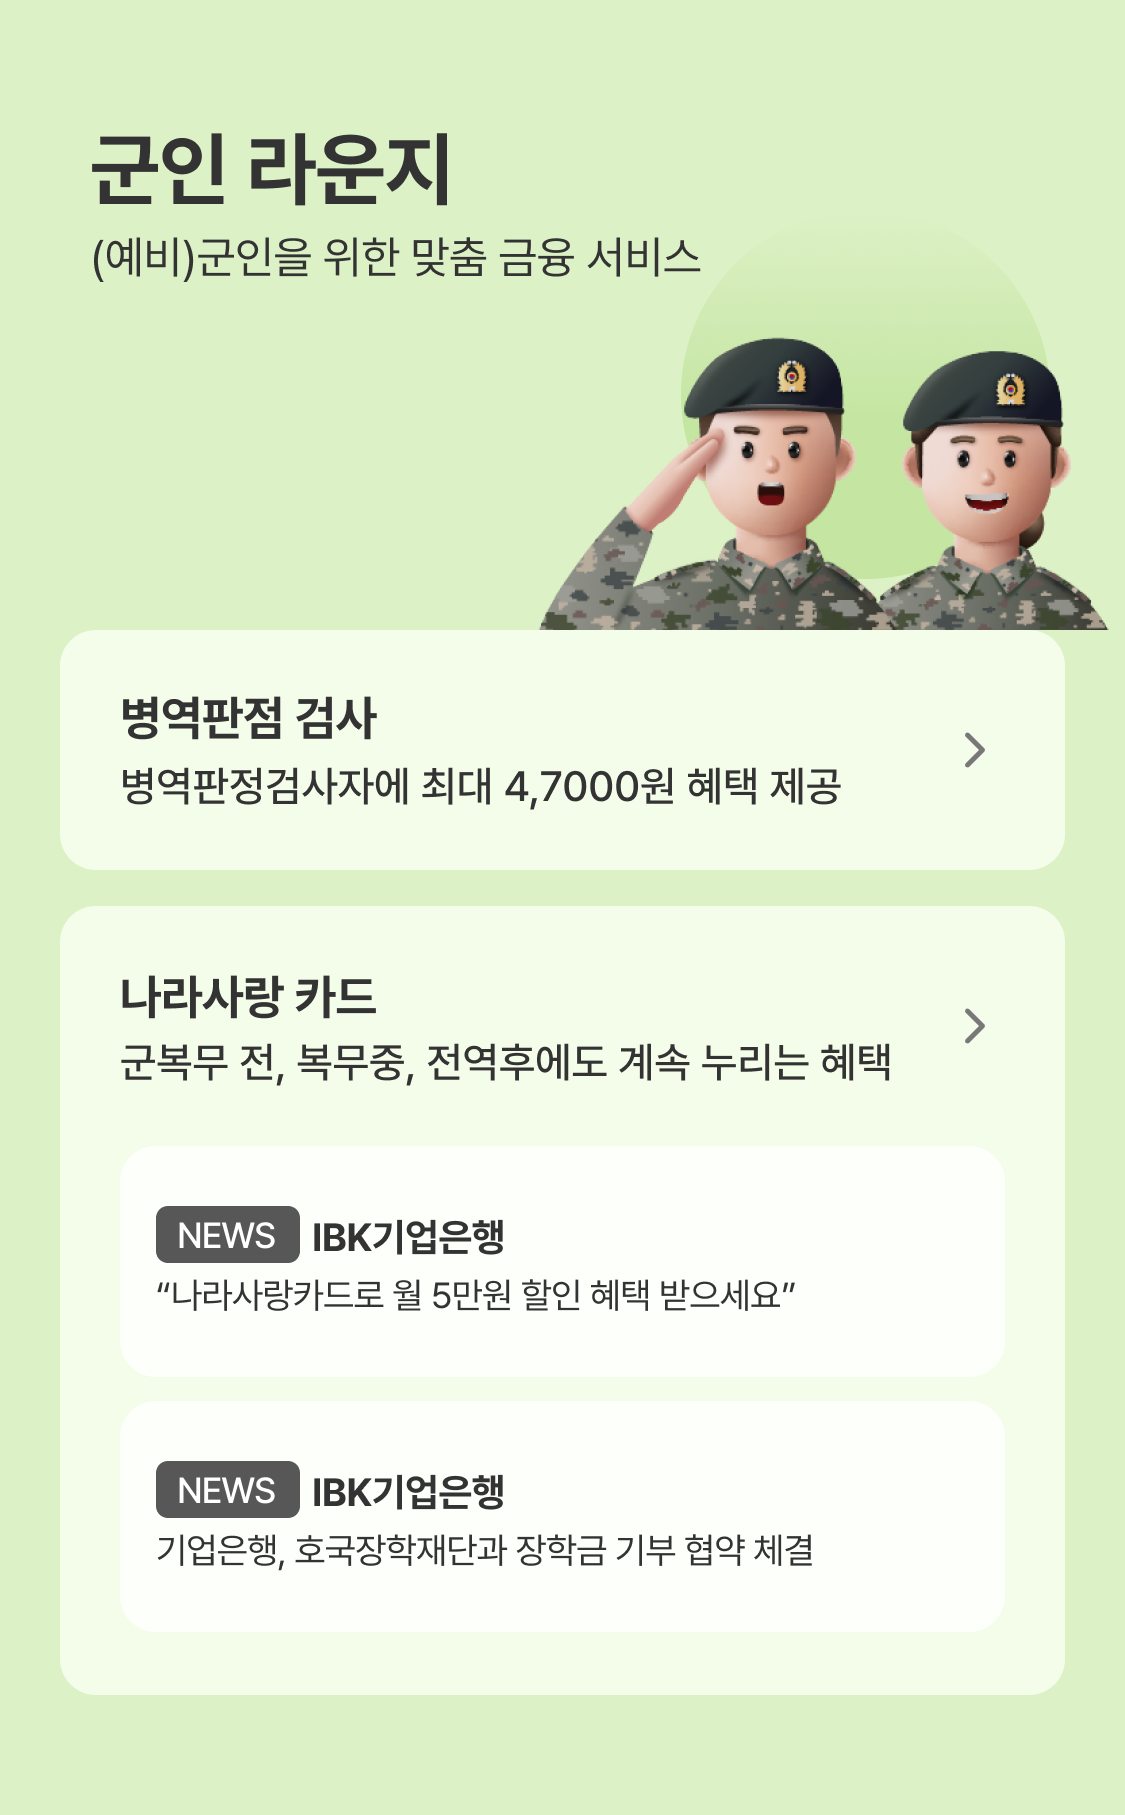
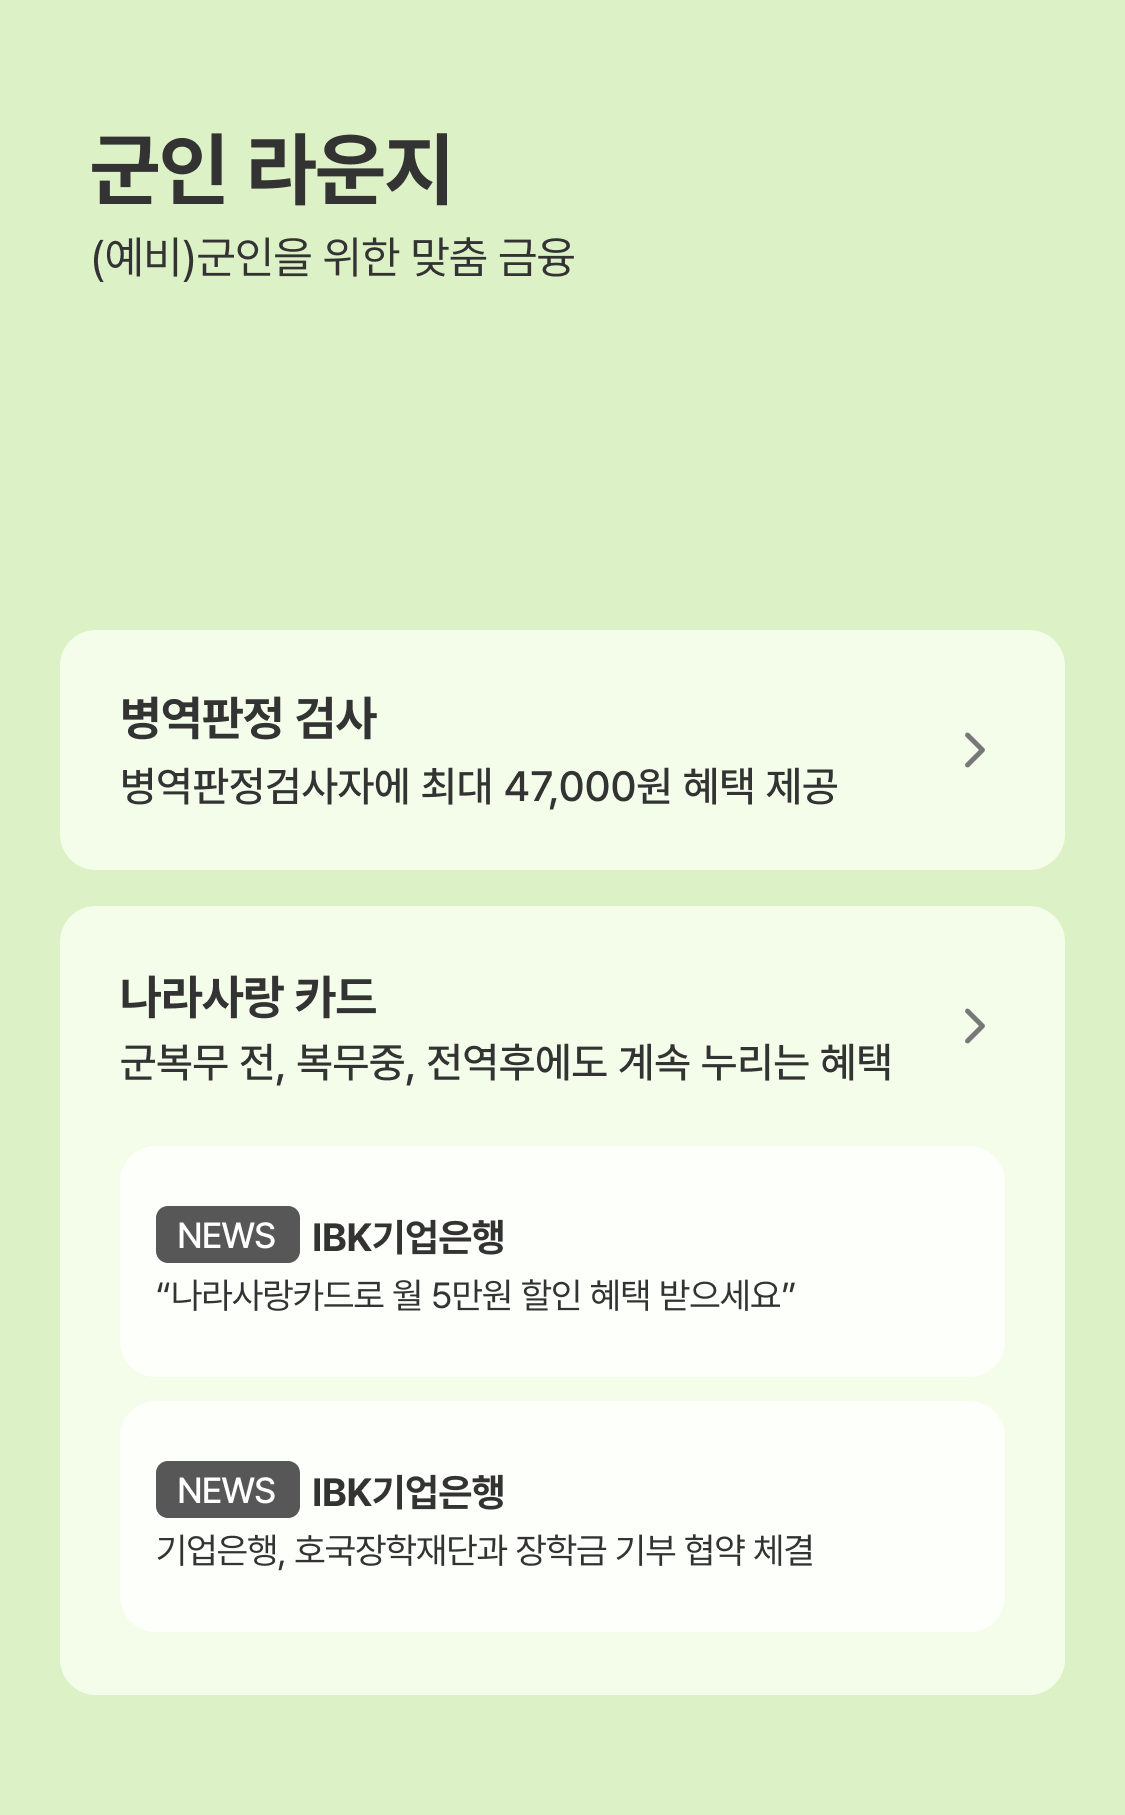
[라운지] 수정

diff --git a/IBK/lounge.html b/IBK/lounge.html
@@ -9,7 +9,24 @@
     <script src="./res/swiper-bundle.min.js"></script>
     <script src="./res/jquery-3.6.4.min.js"></script>
     <style>
-        .main_visual{position:relative;width:100%;}
+        .main_visual{overflow:hidden;position:relative;width:100%;}
+        .main_visual .top_img{position:absolute;right:0;animation:roll-in 2s ease;}
+        .tab-content:nth-child(1) .top_img{top:60px;width:190px;height:150px;}
+        .tab-content:nth-child(2) .top_img{top:70px;width:190px;height:130px;}
+        .tab-content:nth-child(3) .top_img{top:60px;width:190px;height:150px;}
+        .tab-content:nth-child(4) .top_img{top:60px;width:207px;height:150px;}
+        .tab-content:nth-child(5) .top_img{top:60px;width:190px;height:150px;}
+        .roll-in{animation: roll-in 1s ease;}
+            @keyframes roll-in {
+            0% {
+                opacity: 0;
+                transform: translateX(50%);
+            }
+            100% {
+                opacity: 1;
+                transform: translateX(0px);
+            }
+        }
         .image_cont{background:#F4F4F4;}
         .image_cont img + img{margin-top:40px;}
         .image_cont.type1{padding:40px 20px;}
@@ -34,6 +51,7 @@
         .swiper.job{margin-left:20px;margin-top:16px}
         .swiper.job .swiper-slide{width:287px;height:365px;}
         .swiper.job .swiper-slide:first-child{margin-left:0;}
+
     </style>
 </head>
 <body>
@@ -64,6 +82,7 @@
                 <div id="tab1" class="tab-content active">
                     <div class="main_visual">
                         <img src="./images/lounge/visual_family.png" alt="">
+                        <img class="top_img" src="./images/lounge/top_img01.png" alt="">
                     </div>
                     <div class="image_cont type1">
                         <img src="./images/lounge/fam_cont1.png" alt="">
@@ -78,6 +97,7 @@
                 <div id="tab2" class="tab-content">
                     <div class="main_visual">
                         <img src="./images/lounge/visual_teens.png" alt="">
+                        <img class="top_img" src="./images/lounge/top_img02.png" alt="">
                         <div class="swiper store">
                             <div class="swiper-wrapper">
                                 <div class="swiper-slide"><img src="./images/lounge/logo_gongcha.png" alt=""></div>
@@ -104,6 +124,7 @@
                 <div id="tab3" class="tab-content">
                     <div class="main_visual">
                         <img src="./images/lounge/visual_worker.png" alt="">
+                        <img class="top_img" src="./images/lounge/top_img03.png" alt="">
                     </div>
                     <div class="image_cont type1">
                         <img src="./images/lounge/work_cont1.png" alt="">
@@ -118,6 +139,7 @@
                 <div id="tab4" class="tab-content">
                     <div class="main_visual">
                         <img src="./images/lounge/visual_military.png" alt="">
+                        <img class="top_img" src="./images/lounge/top_img04.png" alt="">
                     </div>
                     <div class="image_cont type3">
                         <img src="./images/lounge/mil_cont1.png" alt="">
@@ -129,6 +151,7 @@
                 <div id="tab5" class="tab-content">
                     <div class="main_visual">
                         <img src="./images/lounge/visual_senior.png" alt="">
+                        <img class="top_img" src="./images/lounge/top_img05.png" alt="">
                     </div>
                     <div class="image_cont type1">
                         <img src="./images/lounge/seni_cont1.png" alt="">
